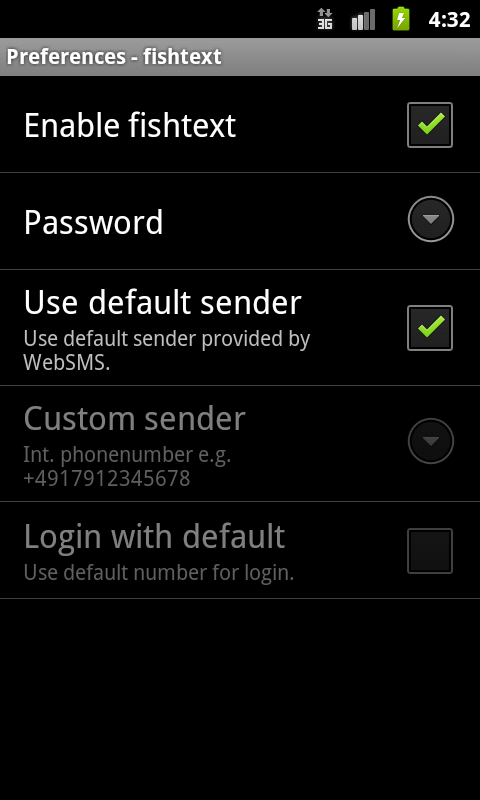
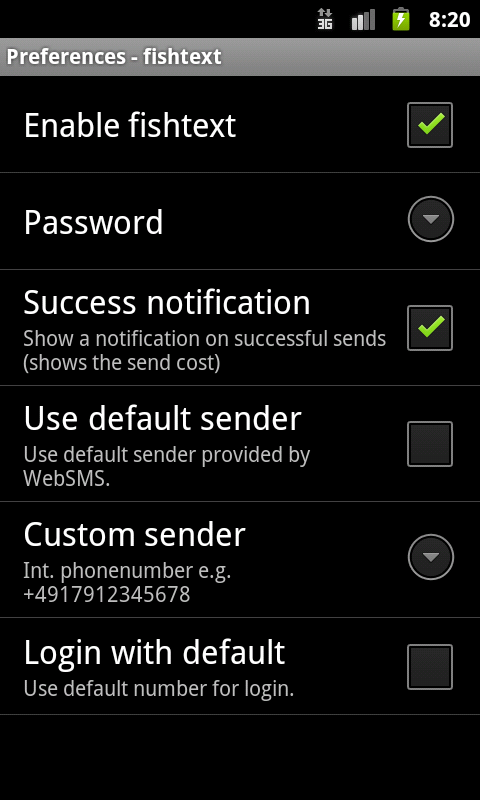
Improving error messages when attempting to send to invalid numbers. Optional notification on successful send that includes the send cost. Automatically truncating passwords to 12 characters (and warning users) to work around fishtext's strange password setup.

diff --git a/src/com/fairmichael/fintan/websms/connector/fishtext/ConnectorFishtext.java b/src/com/fairmichael/fintan/websms/connector/fishtext/ConnectorFishtext.java
@@ -20,6 +20,8 @@ package com.fairmichael.fintan.websms.connector.fishtext;
 
 import java.io.IOException;
 import java.util.ArrayList;
+import java.util.HashMap;
+import java.util.Map;
 import java.util.regex.Matcher;
 import java.util.regex.Pattern;
 
@@ -29,6 +31,7 @@ import android.content.Context;
 import android.content.Intent;
 import android.content.SharedPreferences;
 import android.preference.PreferenceManager;
+import android.widget.Toast;
 import de.ub0r.android.websms.connector.common.Connector;
 import de.ub0r.android.websms.connector.common.ConnectorCommand;
 import de.ub0r.android.websms.connector.common.ConnectorSpec;
@@ -54,7 +57,7 @@ public class ConnectorFishtext extends Connector {
   private static final String PREFS_LOGIN_WTIH_DEFAULT = "login_with_default";
 
   /** Login URL. */
-  private static final String LOGIN_URL = "https://www.fishtext.com/cgi-bin/account";
+  private static final String LOGIN_URL = "https://www.fishtext.com/cgi-bin/mobi/account";
   /** Login Referrer */
   private static final String LOGIN_REFERRER = "https://www.fishtext.com/cgi-bin/mobi/account";
   /** Get Balance URL */
@@ -71,6 +74,9 @@ public class ConnectorFishtext extends Connector {
   private static final Pattern LOGGED_IN_BALANCE = Pattern.compile("^(.*?)(\\d{1,}\\.\\d{1,})");
   /** Pattern for extracting the message id from the send message page */
   private static final Pattern MESSAGE_ID = Pattern.compile("<textarea class=\"messagelargeinput\" name=\"(\\w+)\" id=\"message\"");
+
+  /** Preference identifier for notifying on successful send */
+  private static final String SUCCESSFUL_SEND_NOTIFICATION_PREFERENCE_ID = "successful_send_notification_fishtext";
 
   @Override
   public final ConnectorSpec initSpec(final Context context) {
@@ -113,8 +119,7 @@ public class ConnectorFishtext extends Connector {
       final Matcher matcher = LOGGED_IN_BALANCE.matcher(response);
       if (matcher.find()) {
         String balance = matcher.group(0);
-        balance = balance.replaceAll("&pound;", "\u00A3");
-        balance = balance.replaceAll("&euro;", "\u20AC");
+        balance = FishtextUtil.currencyFix(balance);
         Log.d(TAG, "Balance: " + balance);
         this.getSpec(context).setBalance(balance);
         return true;
@@ -131,6 +136,9 @@ public class ConnectorFishtext extends Connector {
 
   private void doLogin(final Context context, final ConnectorCommand command) {
     final SharedPreferences p = PreferenceManager.getDefaultSharedPreferences(context);
+
+    Utils.clearCookies();
+    Log.d(TAG, "Cleared cookies as we're about to login");
 
     String login = p.getBoolean(PREFS_LOGIN_WTIH_DEFAULT, false) ? command.getDefSender() : Utils.getSender(context, command.getDefSender());
     if (login.startsWith("+")) {
@@ -178,12 +186,18 @@ public class ConnectorFishtext extends Connector {
     // Prepare recipients
     final String[] recipients = command.getRecipients();
     final String[] recipientsProcessed = new String[recipients.length];
+    // Map from processed recipient to original
+    final Map<String, String> recipientMap = new HashMap<String, String>();
+
     for (int i = 0; i < recipients.length; i++) {
-      String number = Utils.getRecipientsNumber(recipients[i]);
-      recipientsProcessed[i] = Utils.national2international(command.getDefPrefix(), number).substring(1);
+      final String number = Utils.getRecipientsNumber(recipients[i]);
+      final String recipientProcessed = Utils.national2international(command.getDefPrefix(), number).substring(1);
+      recipientMap.put(recipientProcessed, recipients[i]);
+      recipientsProcessed[i] = recipientProcessed;
     }
-    final String recipientsProcessedString = FishtextUtil.appendWithSeparator(recipientsProcessed, ",");
+    final String recipientsProcessedString = FishtextUtil.appendWithSeparator(recipientMap.keySet(), ",");
     Log.d(TAG, "Recipients string: " + recipientsProcessedString);
+    Log.d(TAG, "Recipients map: " + recipientsProcessedString);
 
     try {
       final String sendMessagePage = FishtextUtil.http(context, SEND_MESSAGE_PAGE_URL);
@@ -199,16 +213,98 @@ public class ConnectorFishtext extends Connector {
           .add(messageId, messageText).add("RN", recipientsProcessedString).data();
       Log.d(TAG, "Post data: " + postData);
       final String sentResponseText = FishtextUtil.http(context, SEND_SMS_URL, postData);
-      // TODO more advanced processing of this response
-      if (!sentResponseText.contains("Your message was successfully sent to all recipients")) {
-        Log.d(TAG, "Not all (any?) of the messages sent correctly");
-        throw new WebSMSException(context, R.string.error_service);
-      }
+      this.examineSendResponse(context, sentResponseText, recipientMap);
+
     } catch (IOException ioe) {
       Log.d(TAG, "IOException occurred during send. " + ioe.toString());
       throw new WebSMSException(context, R.string.error_http);
     }
+  }
 
+  private static Pattern COST_PATTERN = Pattern.compile("at a cost of (.*?)(\\d{1,}\\.\\d{1,})");
+  private static String COST_FREE = "free";
+  private static String COST_UNKNOWN = "unknown";
+  private static Pattern INVALID_NUMBERS_PATTERN = Pattern.compile("invalid number\\(s\\) (.*?) skipped");
+
+  private void examineSendResponse(final Context context, final String response, final Map<String, String> recipientMap) {
+    if (response.contains("Message sent")) {
+      this.examineSuccessSendResponse(context, response, recipientMap);
+    } else if (response.contains("Send failed")) {
+      this.examineFailedSendResponse(context, response, recipientMap);
+    } else {
+      Log.d(TAG, "Send response didn't have Message Sent or Send Failed in it!");
+      throw new WebSMSException(context, R.string.unexpected_error_fishtext);
+    }
+  }
+
+  private static final Pattern SEND_FAILED_MESSAGE_PATTERN = Pattern.compile("<p>(.*)</p>");
+
+  private void examineFailedSendResponse(final Context context, final String response, final Map<String, String> recipientMap) {
+    Matcher matcher = SEND_FAILED_MESSAGE_PATTERN.matcher(response);
+    if (matcher.find()) {
+      throw new WebSMSException(context.getString(R.string.failed_send_fishtext, matcher.group(1)));
+    } else {
+      throw new WebSMSException(context.getString(R.string.failed_send_fishtext, ""));
+    }
+  }
+
+  private void examineSuccessSendResponse(final Context context, final String response, final Map<String, String> recipientMap) {
+    boolean sentToAll = response.contains("Your message was successfully sent to all recipients");
+    String cost, costUnit;
+    boolean free = response.contains("sent free") || response.contains(", free.");
+    if (free) {
+      cost = COST_FREE;
+    }
+    Matcher matcher = COST_PATTERN.matcher(response);
+    if (matcher.find()) {
+      cost = matcher.group(2);
+      costUnit = FishtextUtil.currencyFix(matcher.group(1));
+    } else {
+      cost = COST_UNKNOWN;
+      costUnit = "";
+    }
+
+    if (sentToAll) {
+      // Sent to all successfully, just notify with the price
+      final SharedPreferences p = PreferenceManager.getDefaultSharedPreferences(context);
+      final boolean notifySend = p.getBoolean(SUCCESSFUL_SEND_NOTIFICATION_PREFERENCE_ID, true);
+      if (notifySend) {
+        final String notification = context.getString(R.string.successful_send_notification_fishtext_notification, costUnit + cost);
+        Log.d(TAG, "Notifying on successful send: " + notification);
+        FishtextUtil.toastNotifyOnMain(context, notification, Toast.LENGTH_SHORT);
+      } else {
+        Log.d(TAG, "Not notifying on successful send");
+      }
+    } else {
+      // Process invalids
+      String invalids = "";
+      int invalidCount = 0;
+      Matcher invalidMatcher = INVALID_NUMBERS_PATTERN.matcher(response);
+      if (invalidMatcher.find()) {
+        Log.d(TAG, "Matched invalids " + invalidMatcher.group() + " - " + invalidMatcher.group(1));
+        invalids = invalidMatcher.group(1);
+
+        String[] parts = invalids.split(",");
+        for (int i = 0; i < parts.length; i++) {
+          parts[i] = recipientMap.get(parts[i].trim());
+        }
+
+        invalids = FishtextUtil.appendWithSeparator(parts, ", ");
+        invalidCount = parts.length;
+      }
+      int successfulCount = recipientMap.size() - invalidCount;
+
+      if (successfulCount > 0) {
+        // Sent to some
+        String errorMessage = context.getString(R.string.unsuccessful_send_some_fishtext, successfulCount, costUnit + cost, invalids);
+        throw new WebSMSException(errorMessage);
+      } else {
+        // Sent to none
+        String errorMessage = context.getString(R.string.unsuccessful_send_all_fishtext, recipientMap.size(), invalids);
+        throw new WebSMSException(errorMessage);
+      }
+
+    }
   }
 
   @Override

diff --git a/src/com/fairmichael/fintan/websms/connector/fishtext/Preferences.java b/src/com/fairmichael/fintan/websms/connector/fishtext/Preferences.java
@@ -1,5 +1,5 @@
 /*
- * Copyright (C) 2010 Felix Bechstein
+ * Copyright (C) 2010-2011 Felix Bechstein, Fintan Fairmichael
  * 
  * This file is part of WebSMS.
  * 
@@ -18,26 +18,44 @@
  */
 package com.fairmichael.fintan.websms.connector.fishtext;
 
+import android.content.Context;
+import android.content.SharedPreferences;
+import android.content.SharedPreferences.OnSharedPreferenceChangeListener;
 import android.os.Bundle;
 import android.preference.PreferenceActivity;
+import android.preference.PreferenceManager;
+import android.widget.Toast;
 
 /**
  * Preferences.
  * 
  * @author flx
  */
-public final class Preferences extends PreferenceActivity {
-	/** Preference key: enabled. */
-	static final String PREFS_ENABLED = "enable_fishtext";
-	/** Preference's name: user's password. */
-	static final String PREFS_PASSWORD = "password_fishtext";
+public final class Preferences extends PreferenceActivity implements OnSharedPreferenceChangeListener {
+  /** Preference key: enabled. */
+  static final String PREFS_ENABLED = "enable_fishtext";
+  /** Preference's name: user's password. */
+  static final String PREFS_PASSWORD = "password_fishtext";
 
-	/**
-	 * {@inheritDoc}
-	 */
-	@Override
-	protected void onCreate(final Bundle savedInstanceState) {
-		super.onCreate(savedInstanceState);
-		this.addPreferencesFromResource(R.xml.connector_fishtext_prefs);
-	}
+  @Override
+  protected void onCreate(final Bundle savedInstanceState) {
+    super.onCreate(savedInstanceState);
+    this.addPreferencesFromResource(R.xml.connector_fishtext_prefs);
+    SharedPreferences sp = PreferenceManager.getDefaultSharedPreferences(this);
+    sp.registerOnSharedPreferenceChangeListener(this);
+  }
+
+  private static final int MAX_PASSWORD_LENGTH = 12;
+
+  @Override
+  public void onSharedPreferenceChanged(final SharedPreferences sp, final String key) {
+    if (key.equals(PREFS_PASSWORD)) {
+      String value = sp.getString(PREFS_PASSWORD, null);
+      if (value.length() > MAX_PASSWORD_LENGTH) {
+        sp.edit().putString(PREFS_PASSWORD, value.substring(0, MAX_PASSWORD_LENGTH)).commit();
+        Context context = this.getApplicationContext();
+        Toast.makeText(context, R.string.warn_fishtext_password_length, Toast.LENGTH_LONG).show();
+      }
+    }
+  }
 }

diff --git a/src/com/fairmichael/fintan/websms/connector/fishtext/FishtextUtil.java b/src/com/fairmichael/fintan/websms/connector/fishtext/FishtextUtil.java
@@ -10,6 +10,9 @@ import org.apache.http.HttpResponse;
 import org.apache.http.message.BasicNameValuePair;
 
 import android.content.Context;
+import android.os.Handler;
+import android.os.Looper;
+import android.widget.Toast;
 import de.ub0r.android.websms.connector.common.Log;
 import de.ub0r.android.websms.connector.common.Utils;
 import de.ub0r.android.websms.connector.common.WebSMSException;
@@ -67,5 +70,40 @@ public class FishtextUtil {
 
   public static String http(final Context context, final String url, final String referrer) throws IOException {
     return http(context, url, null, referrer);
+  }
+
+  /**
+   * Fix html currency symbols to the unicode equivalent
+   * 
+   * @param string
+   * @return
+   */
+  public static String currencyFix(final String string) {
+    return string.replaceAll("&pound;", "\u00A3").replaceAll("&euro;", "\u20AC");
+  }
+
+  /**
+   * Slightly complicated method of showing a toast notification after the
+   * current thread has died
+   * 
+   * @param context
+   * @param message
+   * @param length
+   */
+  public static void toastNotifyOnMain(final Context context, final String message, final int length) {
+    final Handler handler = new Handler(Looper.getMainLooper());
+    final Runnable showNotification = new Runnable() {
+      public void run() {
+        Log.d(ConnectorFishtext.TAG, "Actually notifying on successful send: " + message);
+        Toast.makeText(context.getApplicationContext(), message, length).show();
+      }
+    };
+
+    new Thread() {
+      @Override
+      public void run() {
+        handler.post(showNotification);
+      }
+    }.start();
   }
 }
